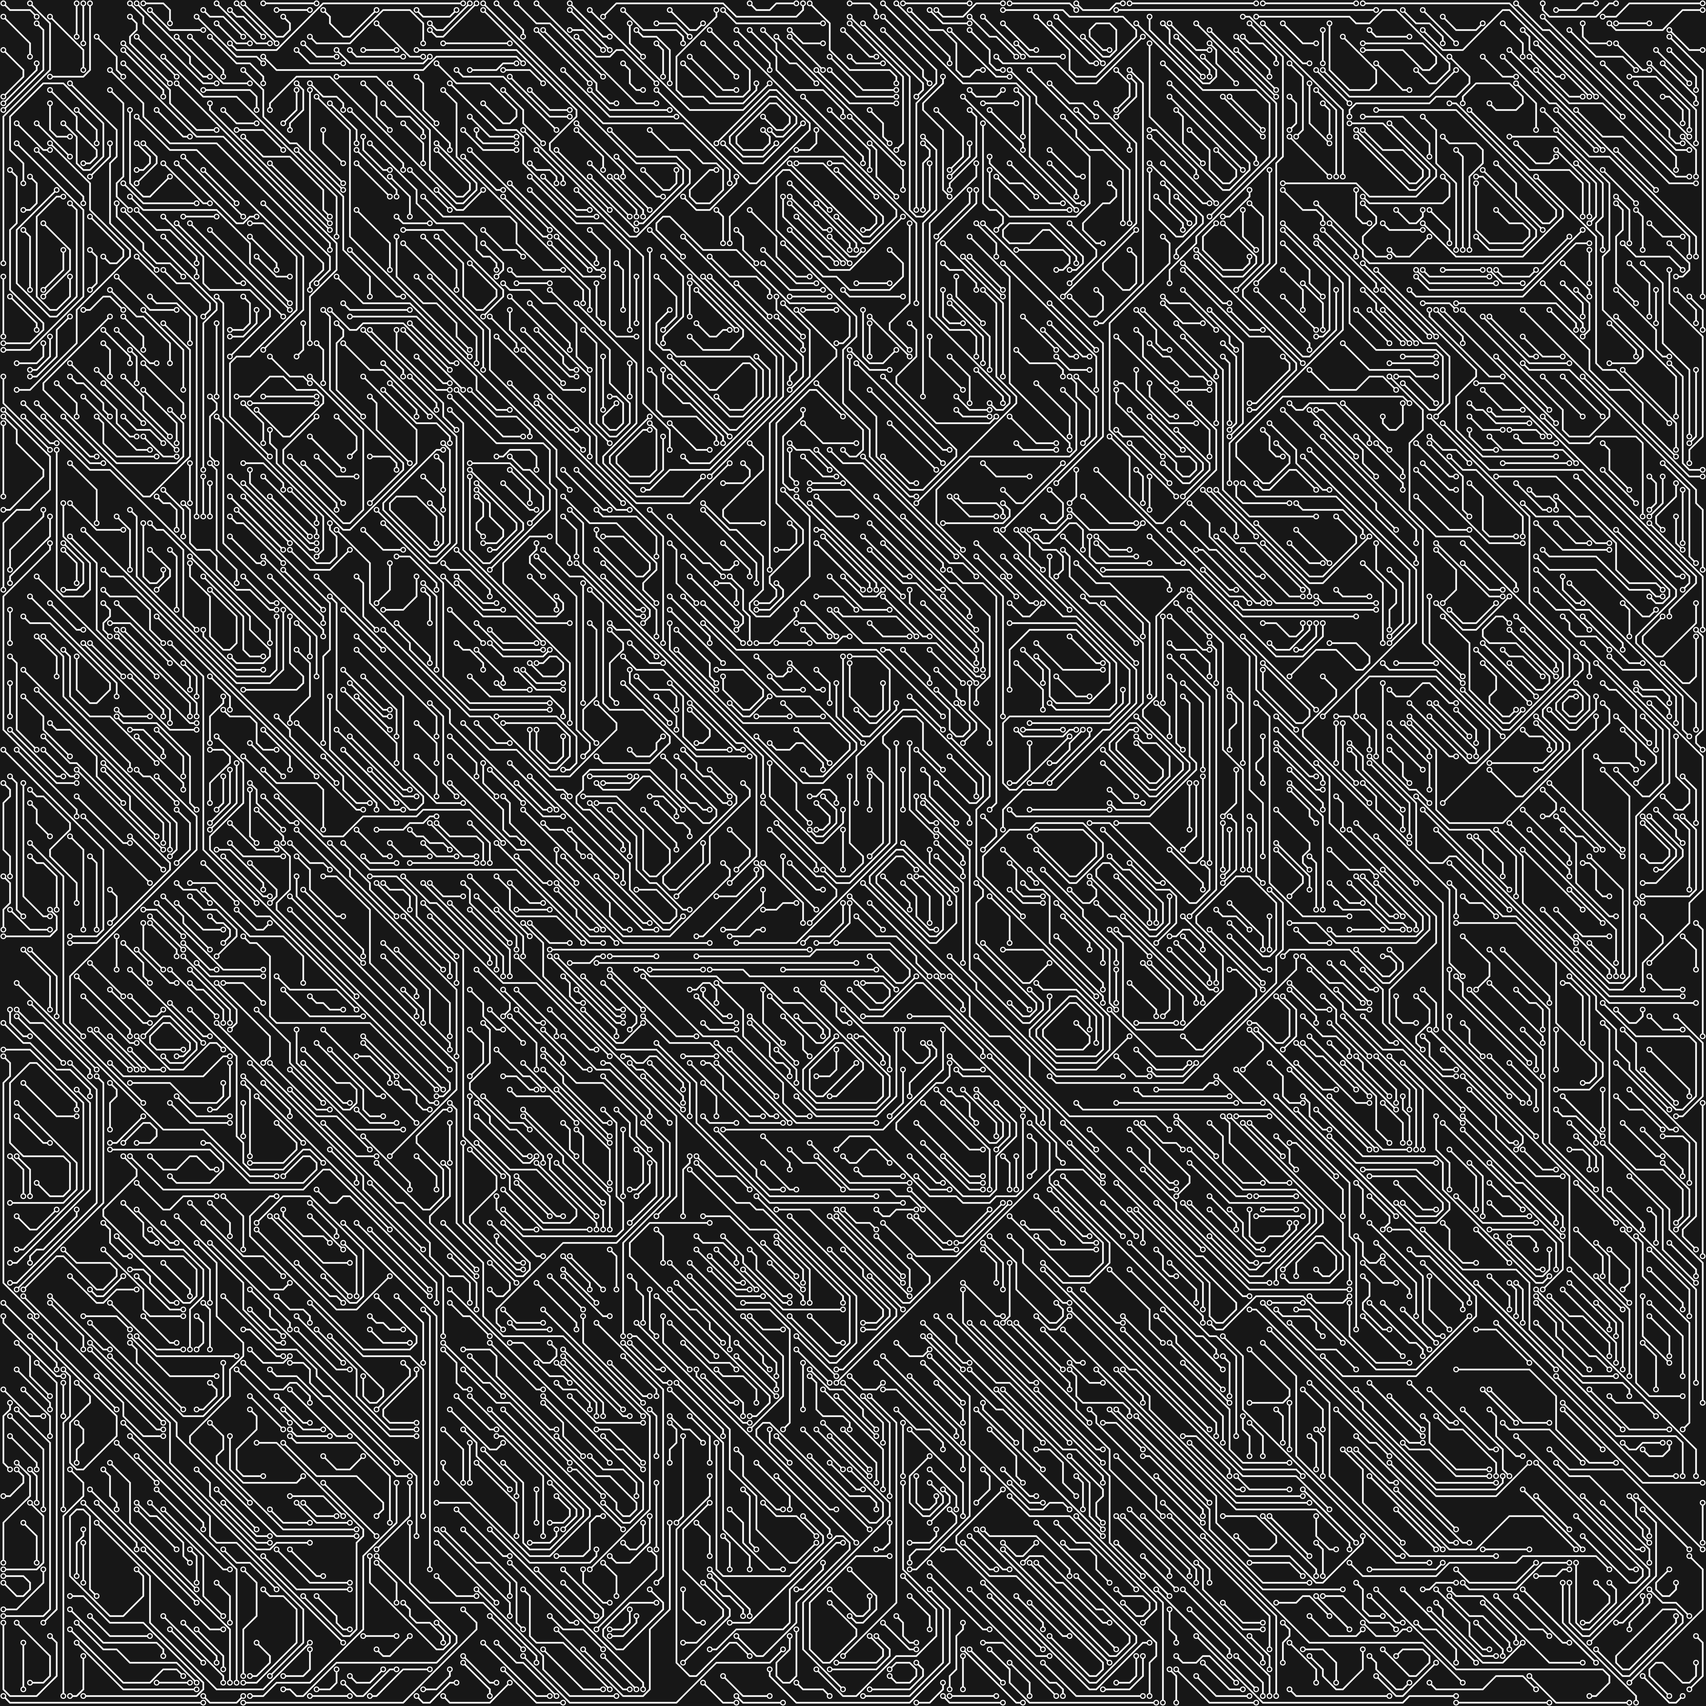
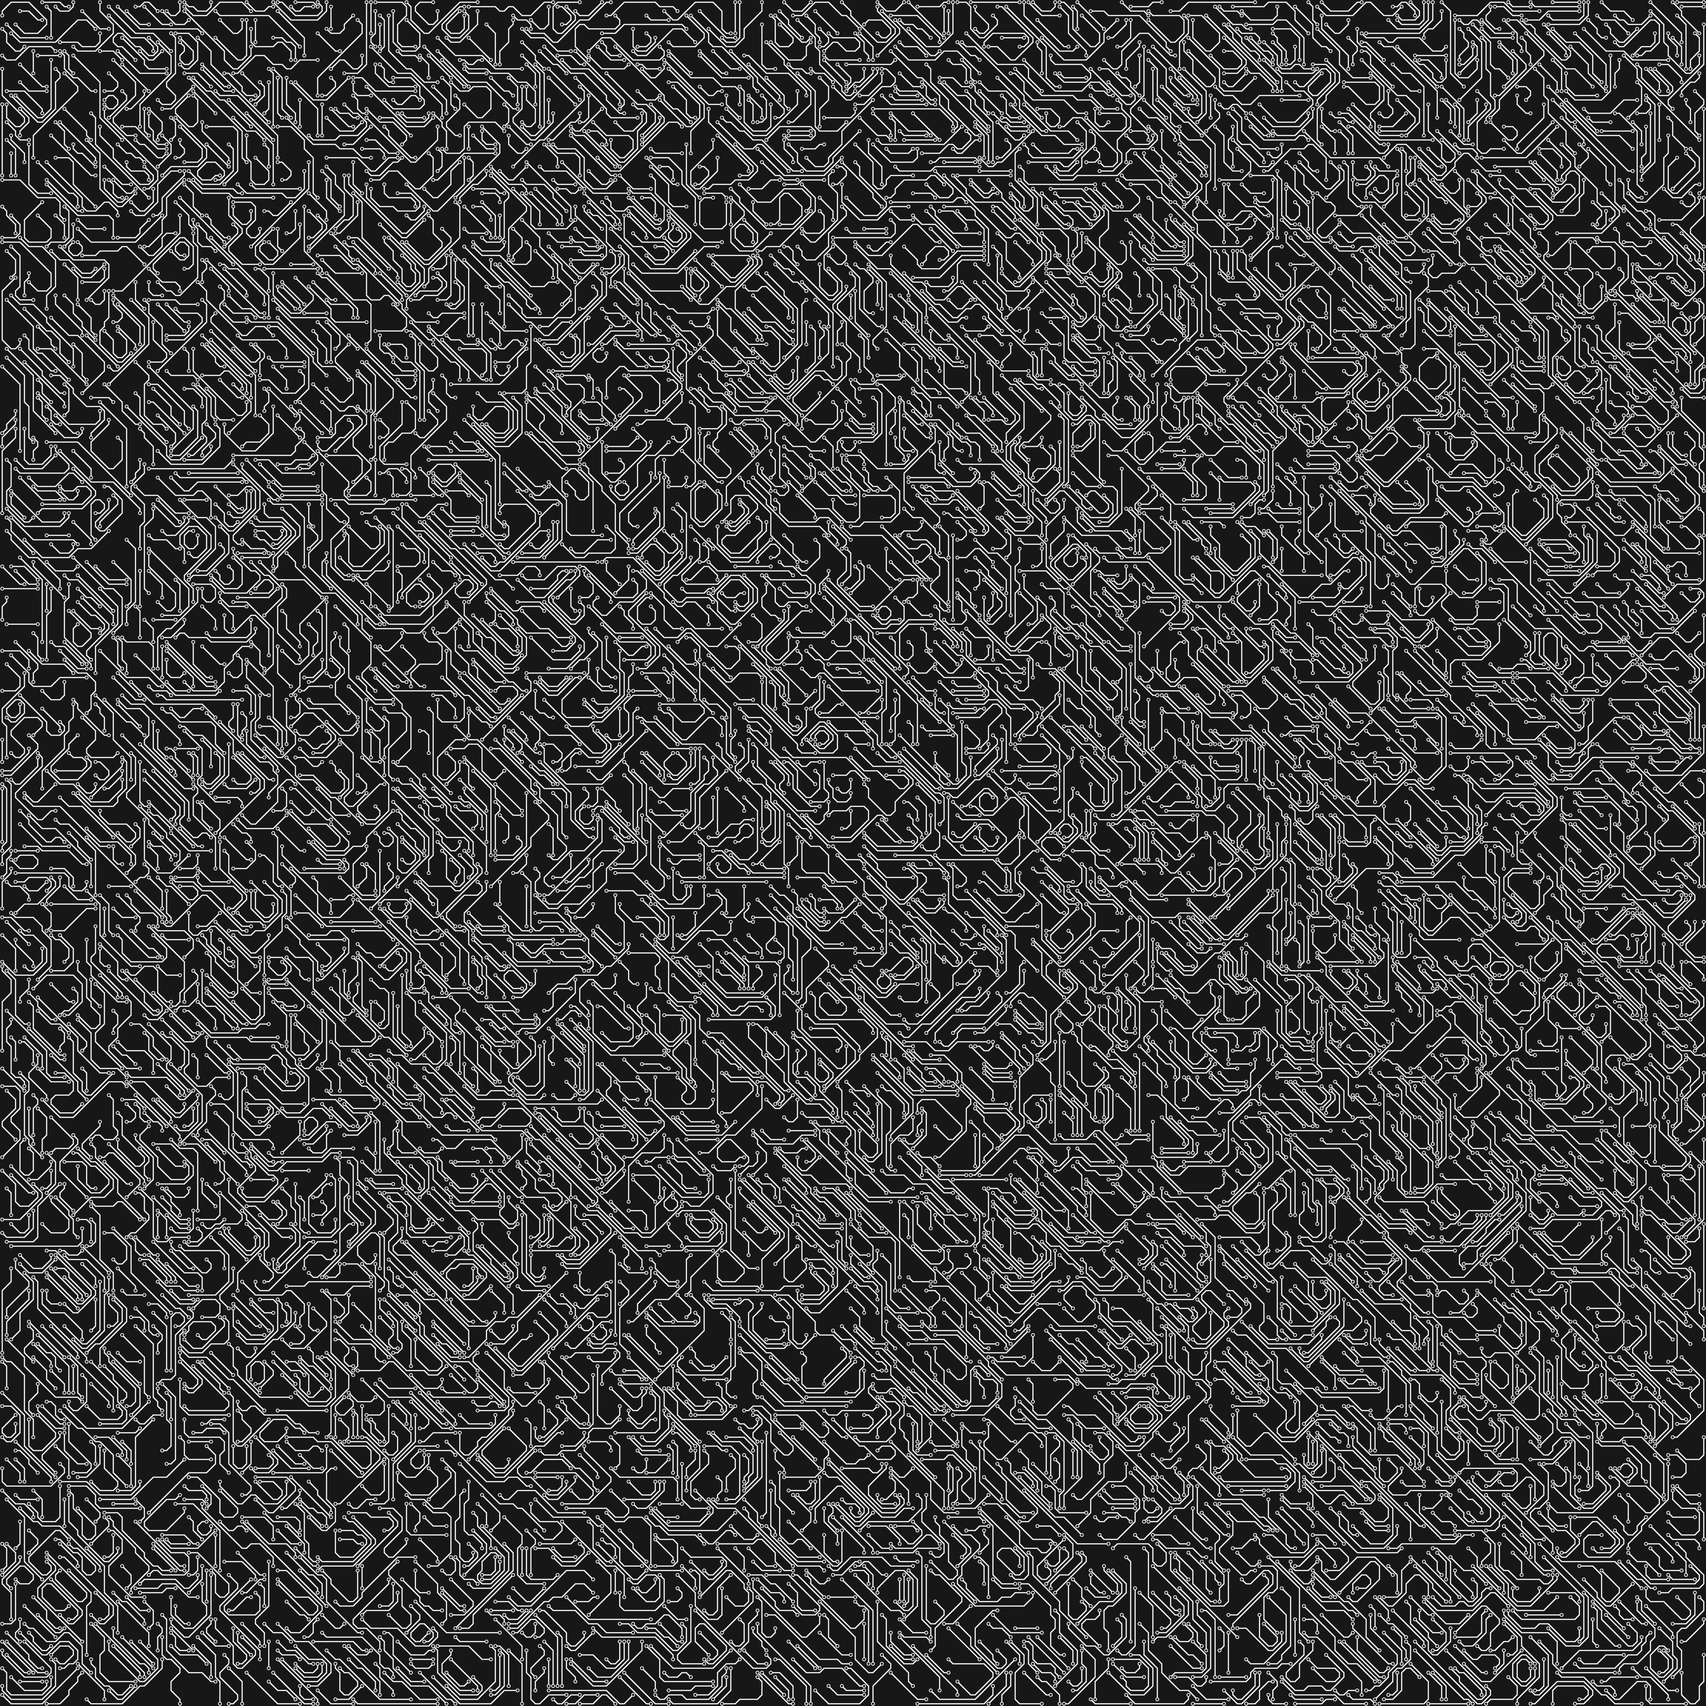
Organize index.js Now we can easily set whether we want to use devicePixelRatio or screen-width as the basis for computing the scale and finalPath used for the canvas and MapEmitterRenderer.

diff --git a/assets/bundle/index.min.js b/assets/bundle/index.min.js
@@ -1,1 +1,1 @@
-(()=>{"use strict";function t(t,e){for(var n=0;n<e.length;n++){var i=e[n];i.enumerable=i.enumerable||!1,i.configurable=!0,"value"in i&&(i.writable=!0),Object.defineProperty(t,i.key,i)}}const e=function(){function e(){!function(t,e){if(!(t instanceof e))throw new TypeError("Cannot call a class as a function")}(this,e),this.elements={},this.head=0,this.tail=0}var n,i;return n=e,(i=[{key:"enqueue",value:function(t){this.elements[this.tail++]=t}},{key:"dequeue",value:function(){var t=this.elements[this.head];return delete this.elements[this.head++],t}},{key:"peek",value:function(){return this.elements[this.head]}},{key:"length",get:function(){return this.tail-this.head}},{key:"isEmpty",get:function(){return 0===this.length}}])&&t(n.prototype,i),Object.defineProperty(n,"prototype",{writable:!1}),e}();function n(t,e){return function(t){if(Array.isArray(t))return t}(t)||function(t,e){var n=null==t?null:"undefined"!=typeof Symbol&&t[Symbol.iterator]||t["@@iterator"];if(null!=n){var i,a,r=[],u=!0,o=!1;try{for(n=n.call(t);!(u=(i=n.next()).done)&&(r.push(i.value),!e||r.length!==e);u=!0);}catch(t){o=!0,a=t}finally{try{u||null==n.return||n.return()}finally{if(o)throw a}}return r}}(t,e)||function(t,e){if(t){if("string"==typeof t)return i(t,e);var n=Object.prototype.toString.call(t).slice(8,-1);return"Object"===n&&t.constructor&&(n=t.constructor.name),"Map"===n||"Set"===n?Array.from(t):"Arguments"===n||/^(?:Ui|I)nt(?:8|16|32)(?:Clamped)?Array$/.test(n)?i(t,e):void 0}}(t,e)||function(){throw new TypeError("Invalid attempt to destructure non-iterable instance.\nIn order to be iterable, non-array objects must have a [Symbol.iterator]() method.")}()}function i(t,e){(null==e||e>t.length)&&(e=t.length);for(var n=0,i=new Array(e);n<e;n++)i[n]=t[n];return i}function a(t,e){for(var n=0;n<e.length;n++){var i=e[n];i.enumerable=i.enumerable||!1,i.configurable=!0,"value"in i&&(i.writable=!0),Object.defineProperty(t,i.key,i)}}var r=function(){function t(e,n,i,a){!function(t,e){if(!(t instanceof e))throw new TypeError("Cannot call a class as a function")}(this,t),this.data=null,this.targetData=null,this.map=null,this.queue=null,this.path=e,this.background=n,this.window=i,this.canvas=a,this.context=a.getContext("2d"),this.finished=!1}var i,r;return i=t,r=[{key:"load",value:function(t){var e=this,n=new Image;n.crossOrigin="*",n.onload=function(){var i=document.createElement("canvas"),a=i.getContext("2d"),r=n.width,u=n.height,o=e.canvas,h=o.width,l=o.height;i.width=h,i.height=l;var s=r/2-h/2,c=u/2-l/2;a.drawImage(n,-s,-c),e.data=a.getImageData(0,0,h,l),a.clearRect(0,0,h,l),t&&t()},n.src=this.path}},{key:"setup",value:function(){this._initializeTargetData(),this._initializeMap(),this._initializeQueue()}},{key:"update",value:function(){if(!this.finished)for(var t=this.window.devicePixelRatio,e=this.data.width*t*.25,n=0;n<e;++n){if(this.queue.isEmpty){var i=this._getMiddlemostIndex();if(!(i>-1)){this.finished=!0;break}this.queue.enqueue(i)}var a=this.data,r=a.height,u=a.width,o=this.queue.dequeue();0==this.map[o]&&(this.map[o]=2,this.targetData.data[4*o+3]=0,o>=u&&this.queue.enqueue(o-u),o%(u+1)!=0&&this.queue.enqueue(o-1),o<u*(r-1)&&this.queue.enqueue(o+u),o%u!=0&&this.queue.enqueue(o+1))}}},{key:"render",value:function(){this.context.putImageData(this.targetData,0,0)}},{key:"_initializeTargetData",value:function(){this.targetData=new ImageData(this.data.width,this.data.height);for(var t=this.targetData.data,e=0;e<t.length/4;++e){var i=n(this.background,3),a=i[0],r=i[1],u=i[2],o=4*e;t[o]=a,t[o+1]=r,t[o+2]=u,t[o+3]=255}}},{key:"_initializeMap",value:function(){var t=this.data.data;this.map=new Uint8Array(Math.floor(t.length/4));for(var e=0,i=0;i<t.length/4;++i){var a=n(this.background,3),r=a[0],u=a[1],o=a[2],h=4*i,l=t[h],s=t[h+1],c=t[h+2],d=1;l==r&&s==u&&c==o||(d=0),this.map[e]=d,++e}}},{key:"_initializeQueue",value:function(){this.queue=new e}},{key:"_getMiddlemostIndex",value:function(){for(var t=new Int32Array(this.map.length),e=0,n=0;n<this.map.length;++n)0==this.map[n]&&(t[e++]=n);return 0==e?-1:t[Math.round((e-1)/2)]}}],r&&a(i.prototype,r),Object.defineProperty(i,"prototype",{writable:!1}),t}();const u=r;var o=document.querySelector(".gradient-layer"),h=document.querySelector(".cover-layer"),l=window.devicePixelRatio,s=window.document.body,c=s.clientWidth,d=s.clientHeight,f=new u("".concat("../images/background",l>1?"/pattern-dpi-2x.png":"/pattern-dpi-1x.png"),[23,23,23],window,h),y=Date.now(),g=y;function p(){window.requestAnimationFrame(p);var t=(y=Date.now())-g,e=1e3/60;t>e&&(g=y-t%e,f.update(),f.render())}h.width=c*l,h.height=d*l,h.style.width="".concat(c,"px"),h.style.height="".concat(d,"px"),f.load((function(){o.style.visibility="visible",f.setup(),console.log(f),p()}))})();
+(()=>{"use strict";function t(t,e){for(var i=0;i<e.length;i++){var n=e[i];n.enumerable=n.enumerable||!1,n.configurable=!0,"value"in n&&(n.writable=!0),Object.defineProperty(t,n.key,n)}}const e=function(){function e(){!function(t,e){if(!(t instanceof e))throw new TypeError("Cannot call a class as a function")}(this,e),this.elements={},this.head=0,this.tail=0}var i,n;return i=e,(n=[{key:"enqueue",value:function(t){this.elements[this.tail++]=t}},{key:"dequeue",value:function(){var t=this.elements[this.head];return delete this.elements[this.head++],t}},{key:"peek",value:function(){return this.elements[this.head]}},{key:"length",get:function(){return this.tail-this.head}},{key:"isEmpty",get:function(){return 0===this.length}}])&&t(i.prototype,n),Object.defineProperty(i,"prototype",{writable:!1}),e}();function i(t,e){return function(t){if(Array.isArray(t))return t}(t)||function(t,e){var i=null==t?null:"undefined"!=typeof Symbol&&t[Symbol.iterator]||t["@@iterator"];if(null!=i){var n,a,r=[],u=!0,o=!1;try{for(i=i.call(t);!(u=(n=i.next()).done)&&(r.push(n.value),!e||r.length!==e);u=!0);}catch(t){o=!0,a=t}finally{try{u||null==i.return||i.return()}finally{if(o)throw a}}return r}}(t,e)||function(t,e){if(t){if("string"==typeof t)return n(t,e);var i=Object.prototype.toString.call(t).slice(8,-1);return"Object"===i&&t.constructor&&(i=t.constructor.name),"Map"===i||"Set"===i?Array.from(t):"Arguments"===i||/^(?:Ui|I)nt(?:8|16|32)(?:Clamped)?Array$/.test(i)?n(t,e):void 0}}(t,e)||function(){throw new TypeError("Invalid attempt to destructure non-iterable instance.\nIn order to be iterable, non-array objects must have a [Symbol.iterator]() method.")}()}function n(t,e){(null==e||e>t.length)&&(e=t.length);for(var i=0,n=new Array(e);i<e;i++)n[i]=t[i];return n}function a(t,e){for(var i=0;i<e.length;i++){var n=e[i];n.enumerable=n.enumerable||!1,n.configurable=!0,"value"in n&&(n.writable=!0),Object.defineProperty(t,n.key,n)}}var r=function(){function t(e,i,n,a){!function(t,e){if(!(t instanceof e))throw new TypeError("Cannot call a class as a function")}(this,t),this.data=null,this.targetData=null,this.map=null,this.queue=null,this.path=e,this.background=i,this.window=n,this.canvas=a,this.context=a.getContext("2d"),this.finished=!1}var n,r;return n=t,r=[{key:"load",value:function(t){var e=this,i=new Image;i.crossOrigin="*",i.onload=function(){var n=document.createElement("canvas"),a=n.getContext("2d"),r=i.width,u=i.height,o=e.canvas,h=o.width,l=o.height;n.width=h,n.height=l;var s=r/2-h/2,c=u/2-l/2;a.drawImage(i,-s,-c),e.data=a.getImageData(0,0,h,l),a.clearRect(0,0,h,l),t&&t()},i.src=this.path}},{key:"setup",value:function(){this._initializeTargetData(),this._initializeMap(),this._initializeQueue()}},{key:"update",value:function(){if(!this.finished){this.window.devicePixelRatio;for(var t=Math.max(this.canvas.width,this.canvas.height),e=0;e<t;++e){if(this.queue.isEmpty){var i=this._getMiddlemostIndex();if(!(i>-1)){this.finished=!0;break}this.queue.enqueue(i)}var n=this.data,a=n.height,r=n.width,u=this.queue.dequeue();0==this.map[u]&&(this.map[u]=2,this.targetData.data[4*u+3]=0,u>=r&&this.queue.enqueue(u-r),u%r!=0&&this.queue.enqueue(u-1),u<=r*(a-1)+1&&this.queue.enqueue(u+r),u%(r+1)!=0&&this.queue.enqueue(u+1))}}}},{key:"render",value:function(){this.context.putImageData(this.targetData,0,0)}},{key:"_initializeTargetData",value:function(){this.targetData=new ImageData(this.data.width,this.data.height);for(var t=this.targetData.data,e=i(this.background,3),n=e[0],a=e[1],r=e[2],u=0;u<t.length/4;++u){var o=4*u;t[o]=n,t[o+1]=a,t[o+2]=r,t[o+3]=255}}},{key:"_initializeMap",value:function(){var t=this.data.data,e=i(this.background,3),n=e[0],a=e[1],r=e[2];this.map=new Uint8Array(Math.floor(t.length/4));for(var u=0,o=0;o<t.length/4;++o){var h=4*o,l=t[h],s=t[h+1],c=t[h+2],d=1;l==n&&s==a&&c==r||(d=0),this.map[u]=d,++u}}},{key:"_initializeQueue",value:function(){this.queue=new e}},{key:"_getMiddlemostIndex",value:function(){for(var t=new Int32Array(this.map.length),e=0,i=0;i<this.map.length;++i)0==this.map[i]&&(t[e++]=i);return 0==e?-1:t[Math.round((e-1)/2)]}}],r&&a(n.prototype,r),Object.defineProperty(n,"prototype",{writable:!1}),t}();const u=r;var o,h,l,s,c,d,f,y,g,v,p=document.querySelector(".gradient-layer"),m=document.querySelector(".cover-layer"),w=window.document.body,b=w.clientWidth,k=w.clientHeight;function q(){window.requestAnimationFrame(q);var t=(h=Date.now())-l,e=1e3/s;t>e&&(l=h-t%e,o.update(),o.render())}f="../images/background",y=window,g=y.devicePixelRatio,v=y.innerWidth,d=(c={scale:Math.max(2.5,g),finalPath:"".concat(f,v>480?"/pattern-desktop.png":"/pattern-mobile-v2.png")}).scale,o=new u(c.finalPath,[23,23,23],window,m),h=Date.now(),l=h,s=60,m.width=Math.ceil(b*d),m.height=Math.ceil(k*d),m.style.width="".concat(b,"px"),m.style.height="".concat(k,"px"),o.load((function(){p.style.visibility="visible",o.setup(),q()}))})();

diff --git a/js/MapEmitterRenderer.js b/js/MapEmitterRenderer.js
@@ -18,6 +18,9 @@ class MapEmitterRenderer {
     this.finished = false;
   }
 
+  /**
+   * 
+   */
   load(onLoadCallback) {
     let image = new Image();
     image.crossOrigin = '*';
@@ -45,17 +48,23 @@ class MapEmitterRenderer {
     image.src = this.path;
   }
 
+  /**
+   * 
+   */
   setup() {
     this._initializeTargetData();
     this._initializeMap();
     this._initializeQueue();
   }
 
+  /**
+   * 
+   */
   // flood-fill algorithm that's breadth-first
   update() {
     if (this.finished) return;
     let scale = this.window.devicePixelRatio;
-    let speed = this.data.width * scale * 0.25;
+    let speed = Math.max(this.canvas.width, this.canvas.height);
 
     for (let times = 0; times < speed; ++times) {
 
@@ -81,11 +90,11 @@ class MapEmitterRenderer {
         // top
         if (index >= width) this.queue.enqueue(index - width);
         // left
-        if (index % (width+1) != 0) this.queue.enqueue(index - 1);
+        if (index % width != 0) this.queue.enqueue(index - 1);
         // bottom
-        if (index < width * (height-1)) this.queue.enqueue(index + width);
+        if (index <= width * (height-1) + 1) this.queue.enqueue(index + width);
         // right
-        if (index % width != 0) this.queue.enqueue(index + 1);
+        if (index % (width+1) != 0) this.queue.enqueue(index + 1);
       }
     }
 
@@ -93,17 +102,23 @@ class MapEmitterRenderer {
     // if okay, set to two, reflect on targetData, boundary check to add neighbors to queue
   }
 
+  /**
+   * 
+   */
   render() {
     this.context.putImageData(this.targetData, 0, 0);
   }
 
+  /**
+   * 
+   */
   _initializeTargetData() {
     this.targetData = new ImageData(this.data.width, this.data.height);
     let { data : pixels } = this.targetData;
+    let [ redValue, greenValue, blueValue ] = this.background;
 
     // set the targetData to render the background color
     for (let index = 0; index < pixels.length/4; ++index) {
-      let [ redValue, greenValue, blueValue ] = this.background;
       let current = index * 4;
       pixels[current] = redValue;
       pixels[current + 1] = greenValue;
@@ -112,8 +127,12 @@ class MapEmitterRenderer {
     }
   }
 
+  /**
+   * 
+   */
   _initializeMap() {
     let { data : pixels } = this.data;
+    let [ redValue, greenValue, blueValue ] = this.background;
 
     this.map = new Uint8Array(Math.floor(pixels.length / 4));
     let mapIndex = 0;
@@ -121,7 +140,6 @@ class MapEmitterRenderer {
     // store a new map with only 0s and 1s where 0 means it is open
     // and 1 means it is a wall
     for (let index = 0; index < pixels.length/4; ++index) {
-      let [ redValue, greenValue, blueValue ] = this.background;
       let current = index * 4;
       
       let red = pixels[current];
@@ -141,11 +159,17 @@ class MapEmitterRenderer {
     }
   }
 
+  /**
+   * 
+   */
   _initializeQueue() {
     this.queue = new Queue();
     // this.queue.enqueue( this._getMiddlemostIndex() );
   }
 
+  /**
+   * 
+   */
   _getMiddlemostIndex() {
     let openIndices = new Int32Array(this.map.length);
     let openIndicesIndex = 0;

diff --git a/js/index.js b/js/index.js
@@ -2,28 +2,85 @@ import MapEmitterRenderer from "./MapEmitterRenderer.js";
 
 const gradient = document.querySelector(".gradient-layer");
 const canvas = document.querySelector(".cover-layer");
-let scale = window.devicePixelRatio;
-let { clientWidth : width, clientHeight : height } = window.document.body;
+const { clientWidth : width, clientHeight : height } = window.document.body;
 
-let basePath = "../images/background";
-let finalPath = scale > 1.0 ? `${basePath}/pattern-dpi-2x.png` : `${basePath}/pattern-dpi-1x.png`;
-let mapEmitter = new MapEmitterRenderer(finalPath, [23, 23, 23], window, canvas);
+let mapEmitter;
+let now, then;
+let fps;
 
-let now = Date.now();
-let then = now;
-let fps = 60;
+/**
+ *
+ *
+ */
+function getPresets(basis) {
+  let basePath = "../images/background";
+  let { devicePixelRatio, innerWidth } = window;
 
-// this is for matching the DPI to keep the output crisp
-canvas.width = width * scale;
-canvas.height = height * scale;
-canvas.style.width = `${width}px`;
-canvas.style.height = `${height}px`;
+  switch (basis) {
+    case 'DPI':
+      return {
+        scale: devicePixelRatio,
+        finalPath: devicePixelRatio > 1.0 ? `${basePath}/pattern-dpi-2x-3x.png` : `${basePath}/pattern-dpi-1x.png`,
+      };
+      break;
+    case 'screen-width':
+      return {
+        scale: Math.max(2.5, devicePixelRatio),
+        finalPath: innerWidth > 480 ? `${basePath}/pattern-desktop.png` : `${basePath}/pattern-mobile-v2.png`
+      };
+      break;
+  }
+}
 
-mapEmitter.load(() => {
+/**
+ *
+ *
+ */
+function main() {
+  let { scale, finalPath } = getPresets('screen-width');
+  mapEmitter = new MapEmitterRenderer(finalPath, [23, 23, 23], window, canvas);
+
+  now = Date.now();
+  then = now;
+  fps = 60;
+
+  // this is for matching the DPI to keep the output crisp
+  canvas.width = Math.ceil(width * scale);
+  canvas.height = Math.ceil(height * scale);
+  canvas.style.width = `${width}px`;
+  canvas.style.height = `${height}px`;
+
+  mapEmitter.load(() => {
     setup();
     loop();
-});
+  });
+}
 
+/**
+ *
+ */
+function setup() {
+  gradient.style.visibility = "visible";
+  mapEmitter.setup();
+}
+
+/**
+ *
+ */
+function update() {
+  mapEmitter.update();
+}
+
+/**
+ *
+ */
+function render() {
+  mapEmitter.render();
+}
+
+/**
+ *
+ */
 function loop() {
     window.requestAnimationFrame(loop);
 
@@ -38,17 +95,4 @@ function loop() {
     }
 }
 
-function setup() {
-  gradient.style.visibility = "visible";
-  mapEmitter.setup();
-  console.log(mapEmitter);
-}
-
-function update() {
-  mapEmitter.update();
-}
-
-function render() {
-  mapEmitter.render();
-}
-
+main();

diff --git a/css/style.css b/css/style.css
@@ -30,26 +30,19 @@ html, body {
 }
 
 .gradient-layer {
-    background: linear-gradient(0deg, #2443ee, #ffa000, #7600ff, #fb3232);
-    background-size: 800% 800%;
-
-    -webkit-animation: GradientAnimation 20s ease infinite;
-    -moz-animation: GradientAnimation 20s ease infinite;
-    animation: GradientAnimation 20s ease infinite;
+  background: linear-gradient(300deg,deepskyblue,darkviolet,blue);
+  background-size: 180% 180%;
+  animation: gradient-animation 3s ease infinite;
 }
 
-@-webkit-keyframes GradientAnimation {
-    0%{background-position:52% 0%}
-    50%{background-position:49% 100%}
-    100%{background-position:52% 0%}
-}
-@-moz-keyframes GradientAnimation {
-    0%{background-position:52% 0%}
-    50%{background-position:49% 100%}
-    100%{background-position:52% 0%}
-}
-@keyframes GradientAnimation {
-    0%{background-position:52% 0%}
-    50%{background-position:49% 100%}
-    100%{background-position:52% 0%}
+@keyframes gradient-animation {
+  0% {
+    background-position: 0% 50%;
+  }
+  50% {
+    background-position: 100% 50%;
+  }
+  100% {
+    background-position: 0% 50%;
+  }
 }
